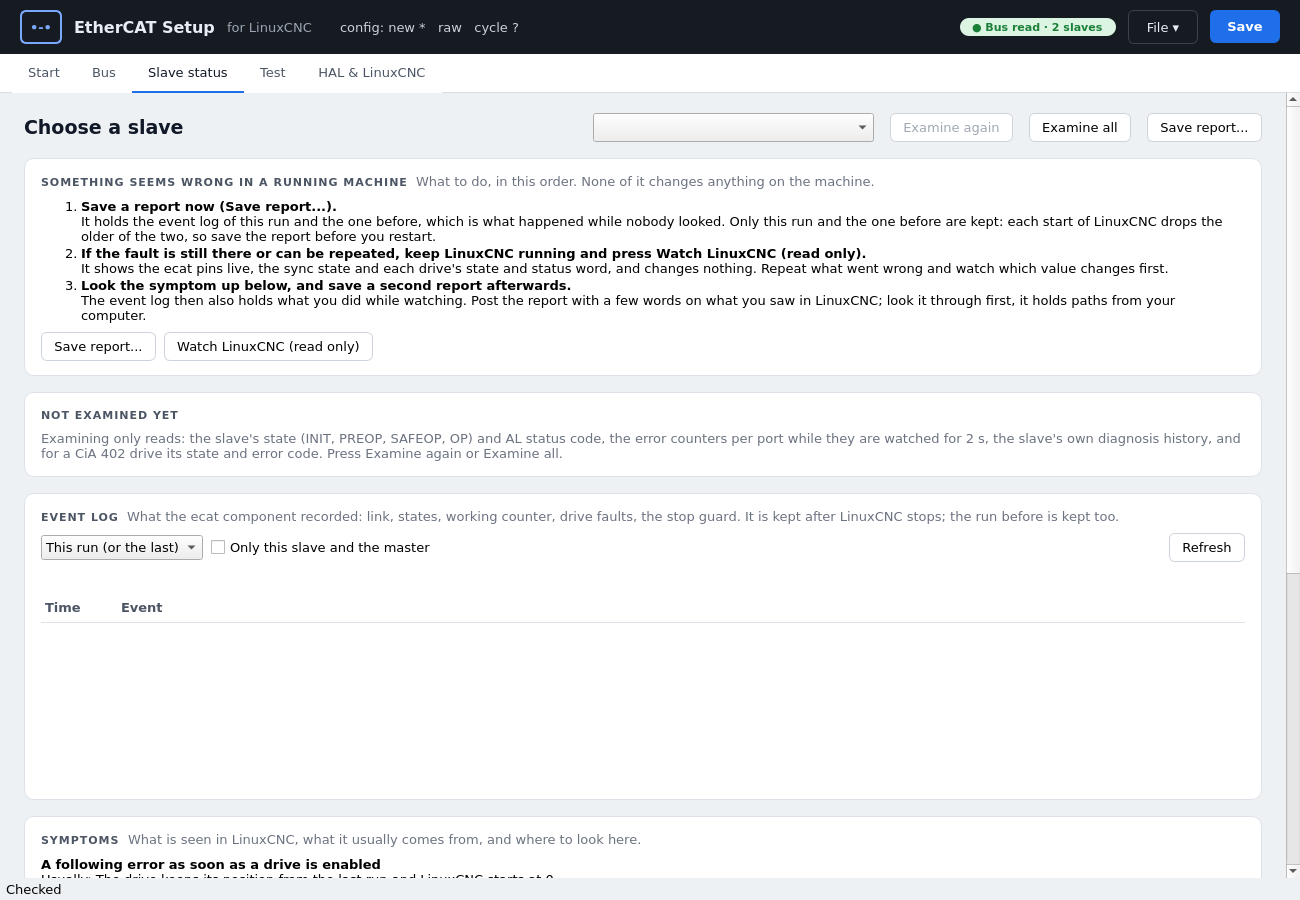
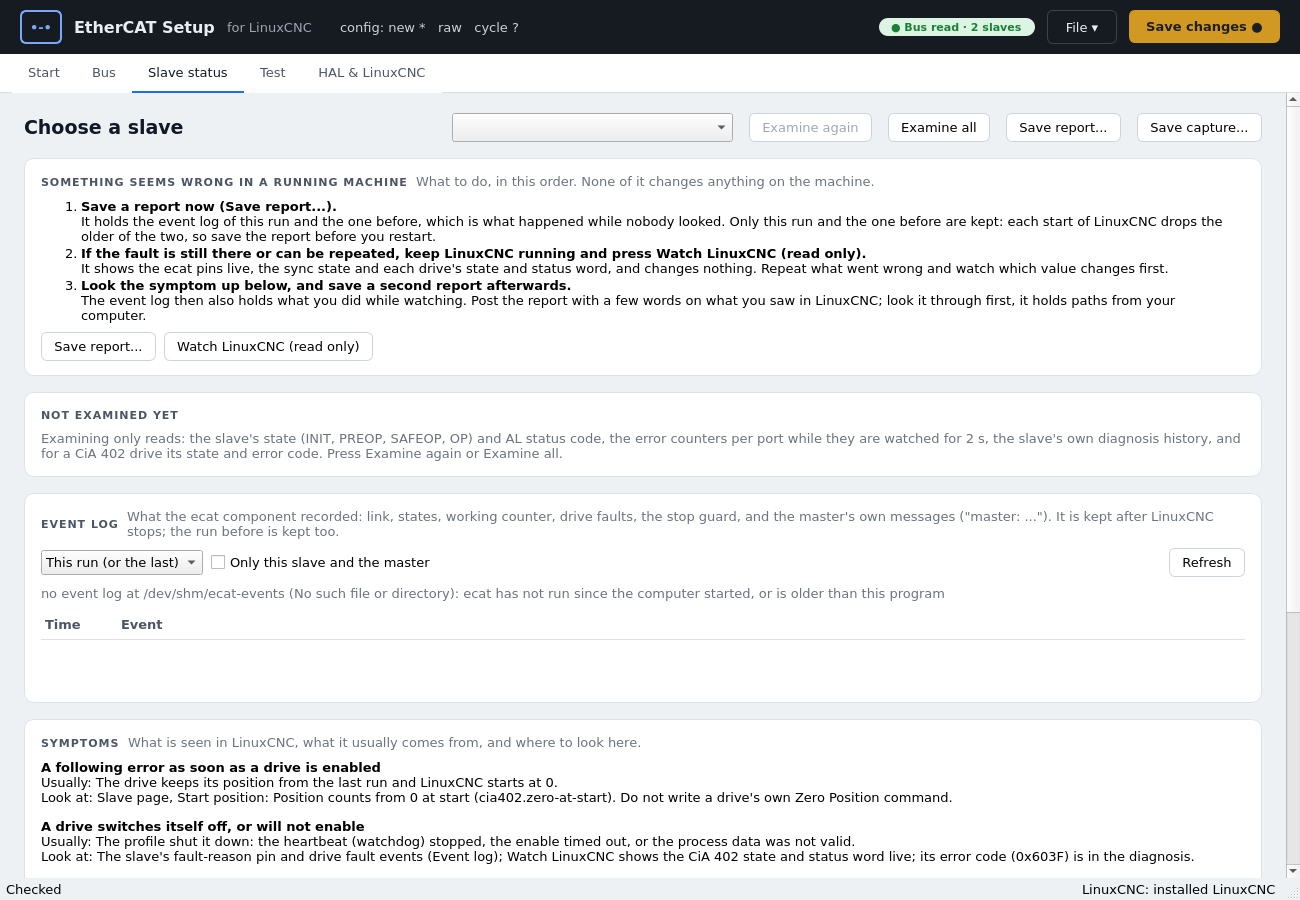
Save capture... in the window (Slave status page)
Runs the capture in a worker thread with the progress in the status bar and
shows what the file holds; the start page's 'Bringing up a new slave' ends
with it. Tried offscreen against the plasma cutter's bus in OP (halrun, raw):
88 s, frames included. The capture looks up its pcap function when called.

diff --git a/ecatsetup/gui.py b/ecatsetup/gui.py
@@ -2078,6 +2078,14 @@ class TroubleshootPage(QWidget):
                                "event logs. Only reads; nothing is sent anywhere.")
         self.report.clicked.connect(win.save_report)
         row.addWidget(self.report)
+        self.capture = QPushButton("Save capture...")
+        self.capture.setToolTip(
+            "For a device the developer does not have: one file with every slave's identity, "
+            "SII, object dictionary and values, PDOs and registers, the report, the ESI "
+            "descriptions and, if tcpdump may run as root, a few seconds of frames. Takes about "
+            "a minute; only reads. Run it during the I/O test to have the frames of a bus in OP.")
+        self.capture.clicked.connect(win.save_capture)
+        row.addWidget(self.capture)
         lay.addLayout(row)
 
         flow = Card("Something seems wrong in a running machine",
@@ -5176,6 +5184,34 @@ class MainWindow(QMainWindow):
         def done(p):
             self.status("Wrote %s; look it through before posting it" % p)
         self.run("Writing the report...", work, done)
+
+    def save_capture(self):
+        """Write a capture of the bus for a developer (capture.py)."""
+        from . import capture
+        s = self.session
+        base = os.path.dirname(os.path.abspath(s.ini_path or s.path or os.path.expanduser("~/x")))
+        path, _ = QFileDialog.getSaveFileName(self, "Save capture - %s" % TITLE,
+                                              os.path.join(base, capture.default_name()),
+                                              "Capture (*.tar.gz);;All files (*)")
+        if not path:
+            return
+        cfg_path = s.path if s.path and os.path.exists(s.path) else None
+        ini_path = s.ini_path if s.ini_path and os.path.exists(s.ini_path) else None
+
+        def work(progress):
+            progress("Capturing the bus (about a minute)...")
+            notes = capture.record(path, s.esi_paths, cfg_path, ini_path, progress=progress)
+            return path, notes
+
+        def done(result):
+            p, notes = result
+            self.status("Wrote %s" % p)
+            text = "\n".join(capture.describe(p))
+            QMessageBox.information(
+                self, TITLE, "Wrote %s.\n\n%s\n\nIt holds bus data, the configuration and the "
+                "INI lines the report holds, and no other files. Look it through before sending "
+                "it." % (p, text))
+        self.run("Capturing the bus...", work, done)
 
     # -- the I/O test
 

diff --git a/tests/test_gui.py b/tests/test_gui.py
@@ -1122,6 +1122,51 @@ class TestParameters(WindowBase):
             self.assertEqual(self.cell(page, pin).text(), "", text)
 
 
+class TestSaveCapture(WindowBase):
+    def test_writes_a_capture_of_the_fake_bus(self):
+        from ecatsetup import capture
+        w = self.window()
+        path = os.path.join(self.dir.name, "c.tar.gz")
+        real = tool.run
+
+        def run(*args, binary=False):     # the fake bus, as the tool's calls
+            a = [str(x) for x in args]
+            if a[0] == "slaves" and "-v" not in a:
+                return "0  0:0  PREOP  +  EaserCAT 7000\n1  0:1  PREOP  +  EaserCAT 7000\n"
+            if a[0] == "sii_read":
+                return self.tool.sii_data if binary else ""
+            if a[0] == "sdos":
+                return self.tool.sdo_text
+            if a[0] == "slaves":
+                return ("Vendor Id:       0xd0bed1d0\nProduct code:    0x00007000\n"
+                        "Revision number: 0x00000002\nState: PREOP\n")
+            if a[0] == "upload":
+                return "0x0001 1\n"
+            raise tool.ToolError("not on the fake bus")
+        for p in self.tool.patches():   # the capture records tool.run itself
+            p.stop()
+        shown = []
+        with mock.patch.object(tool, "run", run), \
+                mock.patch.object(gui.QFileDialog, "getSaveFileName", return_value=(path, "")), \
+                mock.patch.object(w, "run", lambda what, fn, done: done(fn(lambda t: None))), \
+                mock.patch.object(capture.report, "build", return_value="# report\n"), \
+                mock.patch.object(capture, "pcap", return_value=(None, "not here")), \
+                mock.patch.object(gui.QMessageBox, "information",
+                                  lambda *a, **k: shown.append(a[2])):
+            w.trouble_page.capture.click()
+        self.assertIs(tool.run, real)
+        self.assertEqual([s["position"] for s in capture.Replay(path).manifest["slaves"]], [0, 1])
+        self.assertIn("Wrote %s" % path, shown[0])
+        self.assertIn("note: no frames: not here", shown[0])
+
+    def test_cancelled(self):
+        w = self.window()
+        with mock.patch.object(gui.QFileDialog, "getSaveFileName", return_value=("", "")), \
+                mock.patch.object(w, "run") as run:
+            w.trouble_page.capture.click()
+        run.assert_not_called()
+
+
 class TestSignalNameInTheBox(WindowBase):
     """Typing a HAL signal's name in "Connected to" connects the pins on it."""
 

diff --git a/ecatsetup/capture.py b/ecatsetup/capture.py
@@ -163,7 +163,7 @@ def pcap(interface, seconds, runner=subprocess.run):
 
 
 def record(path, esi_paths=(), cfg_path=None, ini_path=None, seconds=2.0, pcap_seconds=3.0,
-           values=True, progress=print, pcap_fn=pcap):
+           values=True, progress=print, pcap_fn=None):
     """Write a capture of the bus to path. Returns the notes (what is missing)."""
     rec = Recorder(tool.run)
     notes = []
@@ -233,7 +233,7 @@ def record(path, esi_paths=(), cfg_path=None, ini_path=None, seconds=2.0, pcap_s
     frames = None
     if pcap_seconds:
         progress("Frames on the wire for %g s" % pcap_seconds)
-        frames, why = pcap_fn(interface, pcap_seconds)
+        frames, why = (pcap_fn or pcap)(interface, pcap_seconds)
         if why:
             notes.append("no frames: " + why)
     if not devices:

diff --git a/ecatsetup/tasks.py b/ecatsetup/tasks.py
@@ -24,7 +24,9 @@ TASKS = [
       ("Read the bus, and look at where the proposal comes from.", "scan", "Rescan the bus"),
       ("Check its process data, pins, sync and settings.", "bus", "Bus"),
       ("Run it and watch the synchronisation.", "test", "Test"),
-      ("Keep what you chose as a quirk file for the device.", "bus", "Bus")]),
+      ("Keep what you chose as a quirk file for the device.", "bus", "Bus"),
+      ("If it does not work, save a capture of the bus for the developer: the device as the "
+       "program sees it.", "status", "Slave status")]),
     ("Using a slave by hand",
      "Reading and setting I/O, moving a drive, trying homing, with no LinuxCNC.",
      [("Read the bus.", "scan", "Rescan the bus"),

diff --git a/docs/ecatsetup.md b/docs/ecatsetup.md
@@ -208,6 +208,9 @@ code. The master's messages say which.
 
 For a running machine the page opens with a short flow: *Save report...*
 (a file to attach when you ask for help), then *Watch LinuxCNC (read only)*.
+*Save capture...*, beside *Save report...* at the top, records the whole
+bus for a developer who does not have the device ([A capture of the
+bus](#a-capture-of-the-bus)).
 At the bottom, **Symptoms** lists what is seen in LinuxCNC, what it usually
 comes from and what to do.
 
@@ -1354,13 +1357,17 @@ machine's configuration: look it through before posting it.
 ### A capture of the bus
 
 When a device does not work and the developer does not have one, a
-capture gives them the device as the program sees it:
+capture gives them the device as the program sees it. *Save capture...* on
+the *Slave status* page, beside *Save report...*, or
 
 ```
 ecatsetup --capture [FILE] --esi <ESI folder> [--ini <machine>.ini]
 ```
 
-writes `ecat-capture-<date>-<time>.tar.gz`. A master must be running
+writes `ecat-capture-<date>-<time>.tar.gz`. The window uses its ESI
+folders, configuration and INI file, shows the progress in the status bar
+and what the file holds when it is done. To have the frames of a bus in
+OP, save the capture while the I/O test runs (or LinuxCNC). A master must be running
 (`sudo ethercat-uspace start`, or LinuxCNC with `ecat`; it is offered when
 none answers). It reads, and keeps with their answers:
 
@@ -1405,7 +1412,9 @@ from it. Frames, with tcpdump installed and the master on `raw`: 497 frames
 sent and 497 back in 3 s from the idle master, 76 kB. In OP (ecat in
 halrun with the plasma cutter's configuration on `raw`, drives not
 enabled): 1029 calls, 1.2 MB of frames in 3 s, decoded into each slave's
-process data per cycle. Not tried: a master on `xdp-native`.
+process data per cycle. *Save capture...* in the window (offscreen, the
+same bus in OP under halrun): 88 s, the progress slave by slave, the same
+contents and frames. Not tried: a master on `xdp-native`.
 
 On the plasma cutter (2026-11-10, halrun with the servo thread, no
 motion): the log showed the load, the activation 4 s later, the four

diff --git a/docs/development.md b/docs/development.md
@@ -1313,7 +1313,7 @@ call of the ethercat tool is recorded with its answer, and
 `capture.Replay` answers them again (`--from-capture`, and the tests:
 `tests/data/capture-ect60-easercat.tar.gz`, the plasma cutter's bus without
 its ESI file). C fakes from a capture are built too (`--capture-c`, see
-[Build and test](#build-and-test)). Not built: a button in the window.
+[Build and test](#build-and-test)), and *Save capture...* in the window.
 Tried 2026-11-14: a capture of the plasma cutter in OP (ecat in halrun,
 `raw` transport, no enable): 1000 cycles per slave decoded; target position
 equal to the actual position, control word Shutdown, CSP. It
